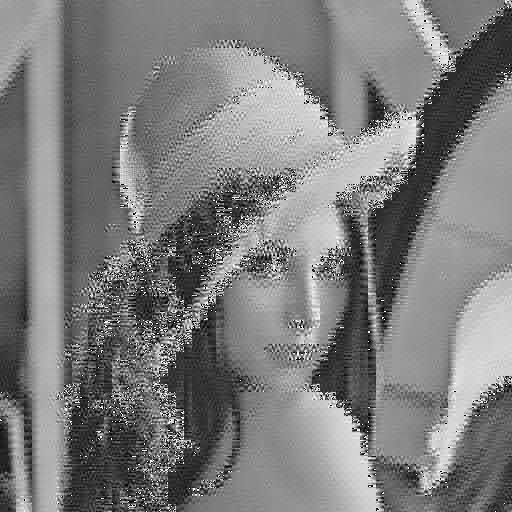
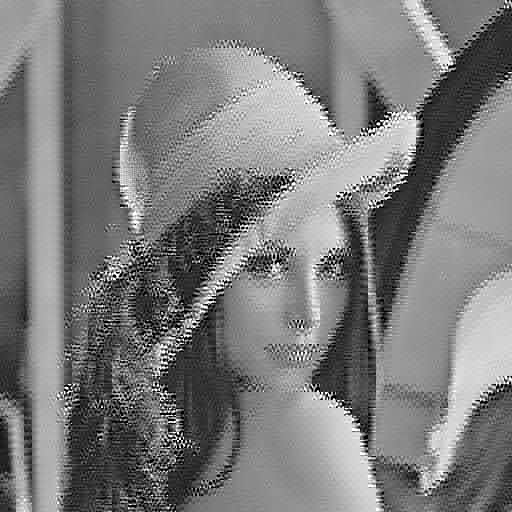
HW4: update DCT & IDCT

diff --git a/Homework/HW4/src/entropy_coding.py b/Homework/HW4/src/entropy_coding.py
@@ -7,20 +7,36 @@ import time
 
 
 # Implement custom DCT for an 8x8 block
-def dct_2d(block):
-    """Apply 2D DCT to an 8x8 block."""
-    dct_block = np.zeros((8, 8), dtype=np.float32)
-    for u in range(8):
-        for v in range(8):
-            alpha_u = 1 / np.sqrt(2) if u == 0 else 1
-            alpha_v = 1 / np.sqrt(2) if v == 0 else 1
-            sum_value = 0
-            for x in range(8):
-                for y in range(8):
-                    sum_value += block[x, y] * np.cos((2 * x + 1) * u * np.pi / 16) * np.cos((2 * y + 1) * v * np.pi / 16)
-            dct_block[u, v] = 0.25 * alpha_u * alpha_v * sum_value
+# def dct_2d(block):
+#     """Apply 2D DCT to an 8x8 block."""
+#     dct_block = np.zeros((8, 8), dtype=np.float32)
+#     for u in range(8):
+#         for v in range(8):
+#             alpha_u = 1 / np.sqrt(2) if u == 0 else 1
+#             alpha_v = 1 / np.sqrt(2) if v == 0 else 1
+#             sum_value = 0
+#             for x in range(8):
+#                 for y in range(8):
+#                     sum_value += block[x, y] * np.cos((2 * x + 1) * u * np.pi / 16) * np.cos((2 * y + 1) * v * np.pi / 16)
+#             dct_block[u, v] = 0.25 * alpha_u * alpha_v * sum_value
             
-    return dct_block
+#     return dct_block
+
+
+def dct_2d(block):
+    M, N = block.shape
+    c = np.array([1 / np.sqrt(2) if i == 0 else 1 for i in range(max(M, N))])
+    x = np.arange(M).reshape(-1, 1)
+    y = np.arange(N).reshape(1, -1)
+
+    dct = np.zeros((M, N))
+    for u in range(M):
+        for v in range(N):
+            cos_x = np.cos((2 * x + 1) * u * np.pi / (2 * M))
+            cos_y = np.cos((2 * y + 1) * v * np.pi / (2 * N))
+            dct[u, v] = (2 / N) * c[u] * c[v] * np.sum(block * cos_x * cos_y)
+
+    return dct
 
 
 # Quantize using quantization tables
@@ -81,22 +97,38 @@ def inverse_quantize(block, q_table):
 
 
 # Implement custom IDCT for an 8x8 block
-def idct_2d(block):
-    """Apply 2D IDCT to an 8x8 block."""
-    idct_block = np.zeros((8, 8), dtype=np.float32)
-    for x in range(8):
-        for y in range(8):
-            sum_value = 0
-            for u in range(8):
-                for v in range(8):
-                    alpha_u = 1 / np.sqrt(2) if u == 0 else 1
-                    alpha_v = 1 / np.sqrt(2) if v == 0 else 1
-                    sum_value += alpha_u * alpha_v * \
-                        block[u, v] * np.cos((2 * x + 1) * u * np.pi / 16) * \
-                        np.cos((2 * y + 1) * v * np.pi / 16)
-            idct_block[x, y] = 0.25 * sum_value
+# def idct_2d(block):
+#     """Apply 2D IDCT to an 8x8 block."""
+#     idct_block = np.zeros((8, 8), dtype=np.float32)
+#     for x in range(8):
+#         for y in range(8):
+#             sum_value = 0
+#             for u in range(8):
+#                 for v in range(8):
+#                     alpha_u = 1 / np.sqrt(2) if u == 0 else 1
+#                     alpha_v = 1 / np.sqrt(2) if v == 0 else 1
+#                     sum_value += alpha_u * alpha_v * \
+#                         block[u, v] * np.cos((2 * x + 1) * u * np.pi / 16) * \
+#                         np.cos((2 * y + 1) * v * np.pi / 16)
+#             idct_block[x, y] = 0.25 * sum_value
             
-    return np.round(idct_block).astype(np.uint8)
+#     return np.round(idct_block).astype(np.uint8)
+
+
+def idct_2d(block):
+    M, N = block.shape
+    c = np.array([1 / np.sqrt(2) if i == 0 else 1 for i in range(max(M, N))])
+    u = np.arange(M).reshape(-1, 1)
+    v = np.arange(N).reshape(1, -1)
+
+    idct = np.zeros((M, N))
+    for x in range(M):
+        for y in range(N):
+            cos_u = np.cos((2 * x + 1) * u * np.pi / (2 * M))
+            cos_v = np.cos((2 * y + 1) * v * np.pi / (2 * N))
+            idct[x, y] = (2 / N) * np.sum(c[u] * c[v] * block * cos_u * cos_v)
+
+    return np.clip(idct, 0, 255)
 
 
 # Peak Signal-to-Noise Ratio (PSNR)
@@ -220,6 +252,7 @@ if __name__ == '__main__':
 
     # Save the reconstructed image
     print("> Save the reconstructed image...")
+    cv2.imwrite("image/original_image.png", image)
     cv2.imwrite("image/reconstructed_image_2.png", reconstructed_image_2)
     cv2.imwrite("image/reconstructed_image_1.png", reconstructed_image_1)
     
@@ -239,6 +272,5 @@ if __name__ == '__main__':
     plt.imshow(reconstructed_image_2, cmap='gray')
 
     plt.show()
-    plt.savefig("reconstructed_plt.png")
     
     print("END!")
